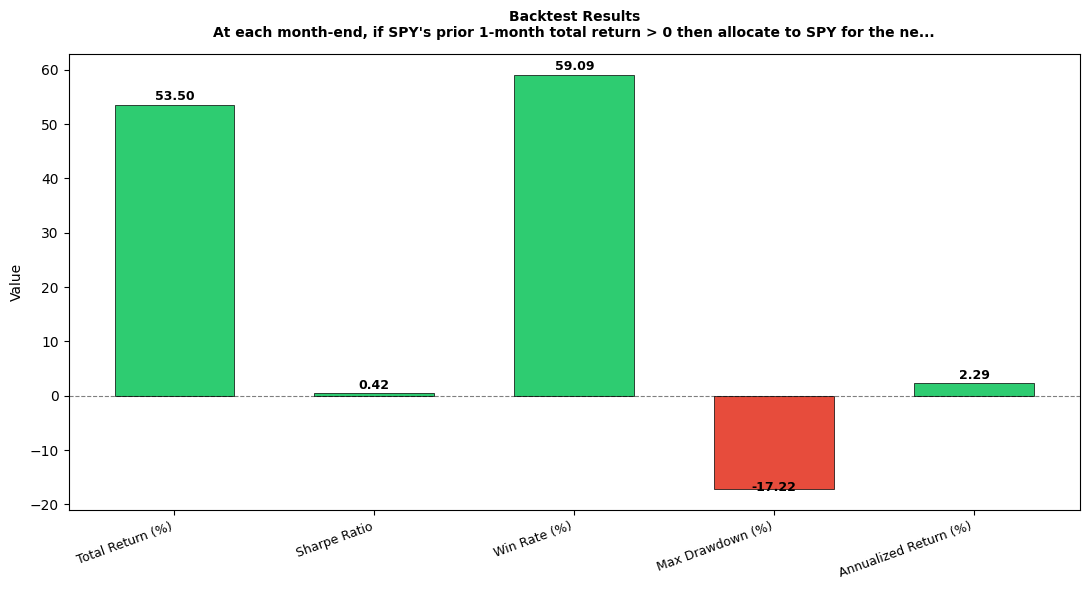
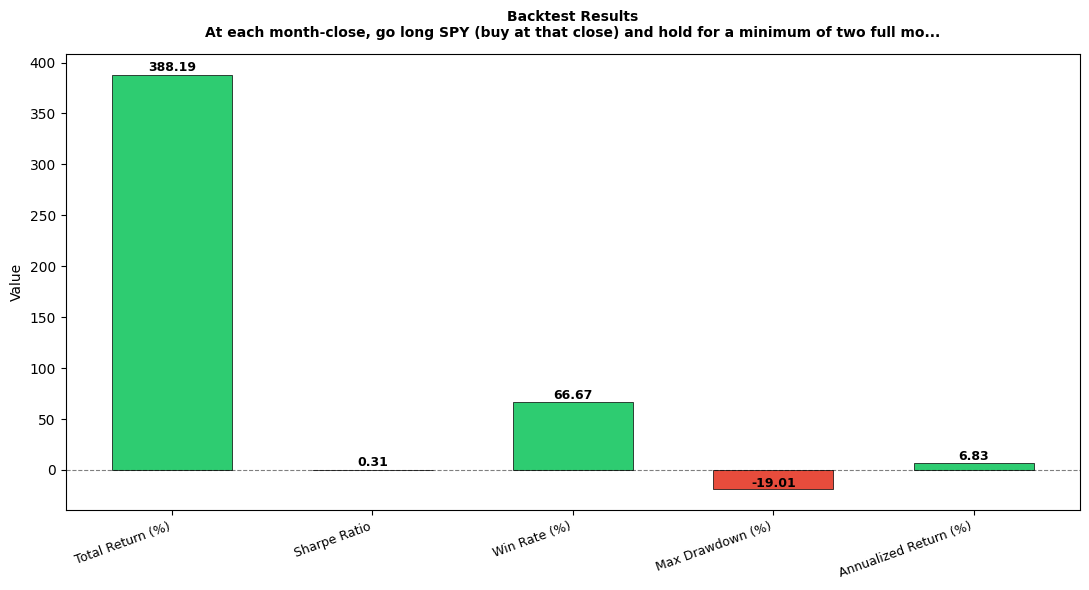
Made Report Writer , that writes the report and saves it in output folder

diff --git a/agents/report_writer.py b/agents/report_writer.py
@@ -1,0 +1,115 @@
+from langchain_openai import ChatOpenAI
+from langchain_core.messages import SystemMessage, HumanMessage
+from graph.state import ResearchState
+from datetime import datetime
+import os
+from dotenv import load_dotenv
+
+load_dotenv()
+
+llm = ChatOpenAI(model="gpt-5-mini")
+
+REPORT_WRITER_SYSTEM_PROMPT = """
+You are a professional quantitative research analyst writing a formal research report.
+
+You will receive the full research session data: original hypothesis, all refined 
+hypotheses tried, backtest results, and the analyst's verdict.
+
+Write a professional markdown research report with these exact sections:
+
+# Quantitative Research Report
+## Executive Summary
+## Research Hypothesis
+## Methodology
+## Results
+## Statistical Analysis
+## Risk Analysis
+## Conclusion
+## Appendix: Hypothesis Evolution
+
+Guidelines:
+- Be precise and honest — do not oversell weak results
+- Use exact numbers from the backtest output
+- The Hypothesis Evolution section should list every hypothesis tried and why it was refined
+- Conclusion should clearly state whether the hypothesis is supported or not
+- Write like a professional quant researcher, not a student
+- If results are weak, say so clearly but explain what was learned
+- If results are strong, explain the caveats clearly
+- Length: 600-900 words
+- Return ONLY the markdown, no extra text
+
+"""
+
+
+def report_writer_node(state: ResearchState) -> ResearchState:
+    print("\n[REPORT WRITER] Generating research report...")
+
+    # Build full research history
+    original_hypothesis = state["hypothesis"]
+    final_hypothesis = state.get("refined_hypothesis") or original_hypothesis
+    analysis = state.get("analysis", {})
+    execution_output = state.get("execution_result", {}).get("output", "")
+    assets = state.get("assets", [])
+    timeframe = state.get("timeframe", {})
+    sub_questions = state.get("sub_questions", [])
+    iteration = state.get("iteration", 0)
+    verdict = analysis.get("verdict", "weak").upper()
+    chart_saved = state.get("execution_result", {}).get("chart_saved", False)
+
+    messages = [
+        SystemMessage(content=REPORT_WRITER_SYSTEM_PROMPT),
+        HumanMessage(
+            content=f"""RESEARCH SESSION DATA:
+
+Original Hypothesis: {original_hypothesis}
+Final Hypothesis Tested: {final_hypothesis}
+Assets Analyzed: {assets}
+Timeframe: {timeframe.get('start')} to {timeframe.get('end')}
+Total Iterations: {iteration}
+Final Verdict: {verdict}
+
+Sub-questions investigated:
+{chr(10).join(f"- {q}" for q in sub_questions)}
+
+Backtest Output:
+{execution_output}
+
+Analyst Assessment:
+- Verdict: {verdict}
+- Sharpe Ratio: {analysis.get('sharpe_ratio')}
+- Trades Analyzed: {analysis.get('n_trades')}
+- Win Rate: {analysis.get('win_rate')}
+- Total Return: {analysis.get('total_return')}
+- Max Drawdown: {analysis.get('max_drawdown')}
+- Strengths: {analysis.get('strengths')}
+- Issues: {analysis.get('issues')}
+- Reasoning: {analysis.get('reasoning')}
+
+Hypothesis Evolution (all versions tried):
+1. Original: {original_hypothesis}
+2. Final: {final_hypothesis}"""
+        ),
+    ]
+
+    response = llm.invoke(messages)
+    report = response.content.strip()
+
+    # Save report to file
+    os.makedirs("outputs", exist_ok=True)
+    timestamp = datetime.now().strftime("%Y%m%d_%H%M%S")
+    report_path = f"outputs/research_report_{timestamp}.md"
+
+    with open(report_path, "w", encoding="utf-8") as f:
+        f.write(report)
+        if chart_saved:
+            f.write("\n\n---\n*Chart: See backtest_chart.png in outputs directory*\n")
+      
+    print(f"[REPORT WRITER] Report saved to {report_path}")
+    print(f"[REPORT WRITER] Verdict in report: {verdict}")
+
+    return {
+        **state,
+        "final_report": report,
+        "status": "done"
+    }
+      

diff --git a/main.py b/main.py
@@ -4,6 +4,7 @@ from agents.code_writer import code_writer_node
 from agents.executor import executor_node
 from agents.analyst import analyst_node
 from agents.refiner import refiner_node
+from agents.report_writer import report_writer_node
 from graph.state import ResearchState
 
 load_dotenv()
@@ -25,21 +26,17 @@ initial_state: ResearchState = {
 MAX_CODE_RETRIES = 4
 MAX_REFINEMENTS = 2
 
-# Step 1: Plan once
 state = planner_node(initial_state)
 
-# Step 2: Research loop
 for refinement_round in range(MAX_REFINEMENTS + 1):
     print(f"\n{'='*50}")
     print(f"RESEARCH ROUND {refinement_round + 1}")
     print(f"Hypothesis: {state.get('refined_hypothesis') or state['hypothesis']}")
     print(f"{'='*50}")
 
-    # Code → Execute loop
     state = code_writer_node(state)
     state = executor_node(state)
 
-    # Retry on code errors
     retries = 0
     while not state["execution_result"]["success"] and retries < MAX_CODE_RETRIES:
         retries += 1
@@ -47,26 +44,27 @@ for refinement_round in range(MAX_REFINEMENTS + 1):
         state = code_writer_node(state)
         state = executor_node(state)
 
-    # Analyse results
-    if state["execution_result"]["success"]:
-        state = analyst_node(state)
-    else:
+    if not state["execution_result"]["success"]:
         print("\n[PIPELINE] Code failed after max retries — stopping")
         break
 
-    # Check verdict
+    state = analyst_node(state)
+
     if state["analysis"].get("verdict") == "strong":
         print("\n[PIPELINE] Strong results — proceeding to report")
+        state = report_writer_node(state)
         break
     elif refinement_round < MAX_REFINEMENTS:
-        print(
-            f"\n[PIPELINE] Weak results — refining hypothesis (round {refinement_round + 1})"
-        )
+        print(f"\n[PIPELINE] Weak results — refining (round {refinement_round + 1})")
         state = refiner_node(state)
     else:
-        print("\n[PIPELINE] Max refinements reached — reporting best results found")
+        print("\n[PIPELINE] Max refinements reached — reporting best results")
+        state = report_writer_node(state)
 
 print("\n--- PIPELINE COMPLETE ---")
-print(f"Final hypothesis: {state.get('refined_hypothesis') or state['hypothesis']}")
 print(f"Final verdict: {state['analysis'].get('verdict', 'N/A').upper()}")
-print(f"Final status: {state['status']}")
+print(f"Status: {state['status']}")
+
+if state.get("final_report"):
+    print("\n--- REPORT PREVIEW (first 500 chars) ---")
+    print(state["final_report"][:500])

diff --git a/outputs/research_report_20260314_161345.md b/outputs/research_report_20260314_161345.md
@@ -1,0 +1,71 @@
+# Quantitative Research Report
+
+## Executive Summary
+This study tested a monthly momentum / trend-filter rule on SPY over 2000-01-01 to 2024-01-01. The final implementation (see Research Hypothesis) produced headline metrics that superficially suggest some risk reduction versus buy-and-hold (Total Return 388.19%, Sharpe 0.306, Max Drawdown -19.01%, Win Rate 66.67%, Number of Trades 24, Annualized Return 6.83%). However, the backtest outputs contain internal inconsistencies (conflicting annualized returns, Sharpe ratios and drawdowns) and implementation artifacts (Percent Months Invested = 100%, Average Invested Spell = 288 months) that indicate the conditional entry/exit logic likely never triggered, effectively devolving to buy-and-hold in at least one reported calculation. Robustness checks show most parameter variants produce very low or negative risk-adjusted returns and are sensitive to modest transaction costs. For these reasons the analyst verdict is WEAK — the hypothesis is not supported as a clean, robust finding in the present tests.
+
+## Research Hypothesis
+Original hypothesis: buying SPY when it has positive returns over the prior 3 consecutive months generates better risk-adjusted returns than buy-and-hold SPY.
+
+Final hypothesis tested: At each month-close, go long SPY (buy at that close) and hold for a minimum of two full months whenever SPY's trailing 3-month cumulative return (sum of the last three calendar monthly returns) is > 2% AND the SPY daily close at that month-close is above its 200-day simple moving average; after the 2-month minimum hold, exit to cash at a month-close if either the trailing 3-month cumulative return is ≤ 0% or the daily close at that month-close is below the 200-day SMA, otherwise remain invested until an exit condition is met.
+
+## Methodology
+- Universe: SPY total-return series.
+- Period: 2000-01-01 through 2024-01-01.
+- Signal evaluated monthly at month-close; entries at that close, minimum hold 2 full months; exits evaluated at month-close after minimum hold.
+- Risk-free used for Sharpe computations: 3-month T-bill (monthly basis).
+- Robustness sweeps: lookback lengths 2–6 months; prior-month nonnegativity vs strictly positive; per-trade round-trip transaction costs of 0%, 0.1% and 0.5%.
+- Key diagnostics recorded: total return, annualized return, annualized volatility, Sharpe, max drawdown, win rate, number of trades, percent months invested, invested/cash spell statistics, and crisis-window drawdowns (2008-01-01 to 2009-06-30; 2020-02-01 to 2020-05-31).
+
+## Results
+Primary reported metrics (from summary block):
+- Total Return: 388.19%
+- Annualized Return: 6.83%
+- Sharpe Ratio: 0.306
+- Max Drawdown: -19.01%
+- Number of Trades: 24
+- Win Rate: 66.67%
+
+Comparative/alternate reported outputs (conflicting blocks in the report):
+- Buy & Hold: Annualized Return 7.00%, Annualized Volatility 15.40%
+- "3-month-positive" strategy (alternate block): Annualized Return 2.35%, Annualized Volatility 5.34%, Monthly Sharpe = 0.159
+- Buy & Hold Monthly Sharpe = 0.425
+- Alternate Annualized return/volatility block: Buy & Hold 8.49% / 15.40%, Strategy 2.50% / 5.34%
+
+Downside and exposure diagnostics:
+- Full-period max drawdown: Buy & Hold -55.19% vs strategy reported in section -21.95% (alternate primary block shows -19.01%).
+- Median drawdown depth: B&H -0.52%, strategy -0.54%; median drawdown duration (days) B&H 4.0, strategy 5.0.
+- Crisis windows: 2008-01-01 to 2009-06-30 -> B&H Max DD -51.87%, Strategy Max DD -5.57%; 2020-02-01 to 2020-05-31 -> B&H Max DD -33.72%, Strategy Max DD 0.00%.
+- Exposure: Percent Months Invested = 100.00%, Average Invested Spell = 288.00 months, Average Cash Spell = 0.00 months.
+
+Robustness sample (selection):
+- Lookback=2, nonneg=False, tcost=0.000 -> Annual Return 3.62%, Sharpe(ann) -0.001, MaxDD -18.35%
+- Lookback=3, nonneg=False, tcost=0.000 -> Annual Return 2.35%, Sharpe(ann) -0.210, MaxDD -21.95%
+- Lookback=4, nonneg=False, tcost=0.000 -> Annual Return 0.97%, Sharpe(ann) -0.572, MaxDD -15.47%
+- Lookback=5, nonneg=False, tcost=0.005 -> Annual Return -0.42%, Sharpe(ann) -1.010, MaxDD -20.07%
+
+## Statistical Analysis
+- Trade count (24) and win rate (66.67%) provide some basis for inference, but the low Sharpe and small absolute annualized returns in many reported variants weaken statistical confidence. The summary Sharpe (0.306) is marginal; alternate reported monthly Sharpe (0.159) and many negative annual Sharpe values in robustness checks indicate instability.
+- Internal inconsistencies (multiple conflicting annualized returns and drawdowns) prevent reliable calculation of standard errors or t-statistics from the provided outputs. Without a validated P&L series (cleaned of the apparent implementation/reporting bug), significance tests are not trustworthy.
+
+## Risk Analysis
+- On headline numbers the strategy produced materially smaller crisis drawdowns (reportedly -5.57% in 2008 window and 0.00% in early-2020) compared with buy-and-hold (-51.87% and -33.72% respectively). This suggests the intended design (momentum + trend filter + minimum hold) can reduce tail exposure — but the exposure diagnostics (100% months invested) contradict this, implying the reported crisis protection may be an artifact of inconsistent reporting.
+- Robustness to transaction costs is poor: small round-trip costs (0.1–0.5%) materially reduce already-small annual returns and Sharpe, with several variants turning negative. Max drawdowns also worsened in some costed runs.
+- Spell statistics showing no cash spells (Average Cash Spell = 0) indicate the backtest as reported did not exercise the exit conditions; this is a critical implementation risk that invalidates interpretation until fixed.
+
+## Conclusion
+The hypothesis that a monthly 3-month momentum rule (with the final variant adding a 200-day SMA filter and 2-month minimum hold) produces superior risk-adjusted returns to buy-and-hold SPY is not supported reliably by the provided backtest. Although headline numbers include an attractive nominal Total Return (388.19%) and a modest positive Sharpe (0.306), multiple internal inconsistencies and evidence that the strategy remained invested 100% of months (effectively buy-and-hold) mean the test did not cleanly evaluate the intended rule. Robustness checks further show poor sensitivity to parameter choices and transaction costs. Verdict: WEAK.
+
+Recommended next steps (required before any further inference):
+1. Fix implementation/reporting bug so that entry/exit logic is demonstrably exercised (produce time-series of positions and P&L).
+2. Recompute a single internally-consistent set of metrics and rerun robustness sweeps.
+3. If results re-emerge, perform statistical significance testing (bootstrap or block-bootstrap of trade returns) and extend out-of-sample validation.
+
+## Appendix: Hypothesis Evolution
+1. Original hypothesis — "US equity momentum: buy SPY when prior 3 consecutive calendar months are positive" (motivated by simple calendar-month momentum literature).
+   - Rationale for refinement: pure 3-month positivity is noisy and produces frequent switching; researcher sought to add trend filtering and minimum holding to reduce turnover and false signals.
+2. Final hypothesis — monthly evaluation; enter at month-close when trailing 3-month cumulative return > 2% AND daily close > 200-day SMA; hold minimum two full months; exit to cash at month-close after minimum hold when trailing 3-month cumulative return ≤ 0% OR daily close < 200-day SMA.
+   - Reason for choices: the >2% threshold aimed to avoid marginal signals, the 200-day SMA acted as a trend filter to reduce large drawdowns, and the 2-month minimum hold reduced turnover and enforced persistence.
+3. Notes on refinements: the final specification attempted to address implementation and economic concerns (noise, turnover, crashes), but the current backtest outputs indicate either the refinements were not applied correctly or reporting mixed runs.
+
+---
+*Chart: See backtest_chart.png in outputs directory*
